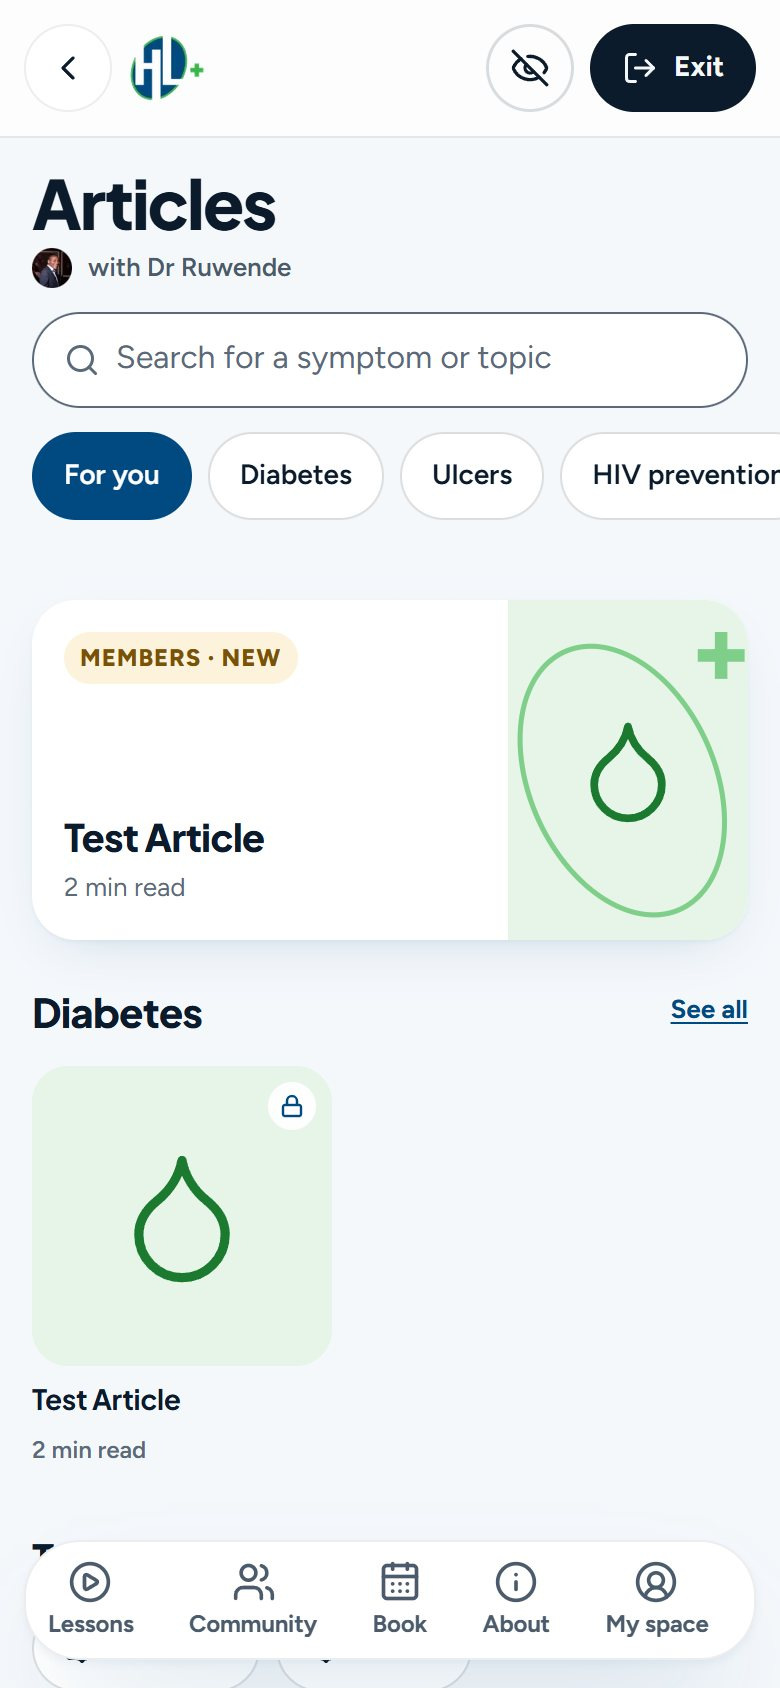
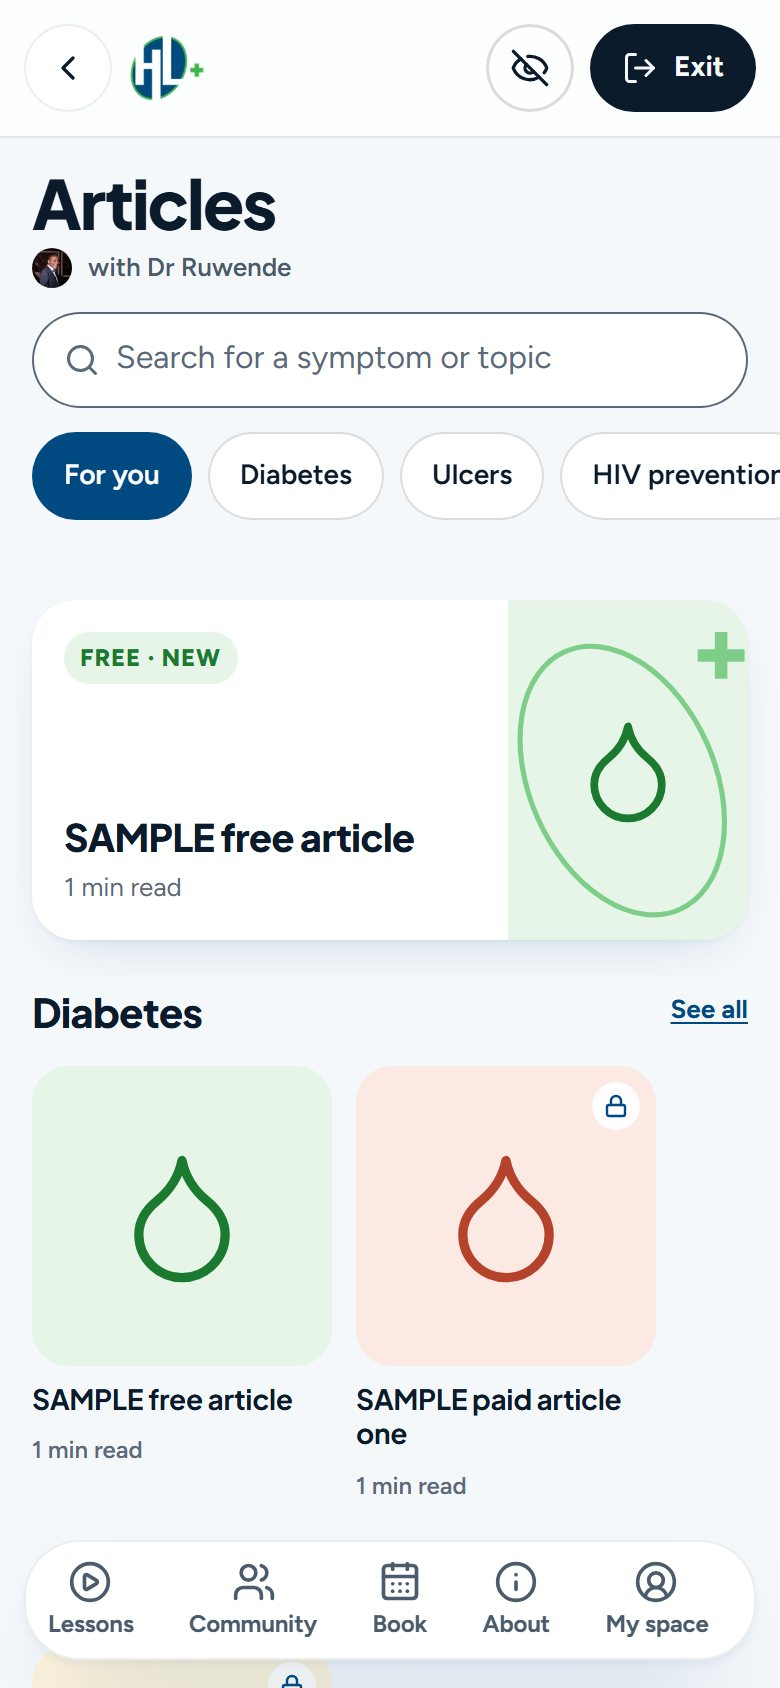
fix(media): keep sample Home and Articles captures until a real article is live

diff --git a/src/app/projects/health-and-longevity/page.tsx b/src/app/projects/health-and-longevity/page.tsx
@@ -140,12 +140,12 @@ const STACK: StackGroup[] = [
 ];
 
 const SCREENS: MediaItem[] = [
-  { kind: "image", wide: true, src: "/images/health-longevity/hl-home-desktop.jpg", alt: "Health & Longevity home page on a laptop: the six service tiles and a featured members' article" },
+  { kind: "image", wide: true, src: "/images/health-longevity/hl-home-desktop.jpg", alt: "Health & Longevity home page on a laptop: the six service tiles and a sample featured article" },
   { kind: "image", src: "/images/health-longevity/hl-membership-phone.jpg", focus: "top", alt: "Membership page on a phone: pay once and keep it, or buy one article, set or lesson" },
   { kind: "image", wide: true, src: "/images/health-longevity/hl-admin-today-desktop.jpg", alt: "Health & Longevity admin Today screen on a laptop, with the next video consult (sample data)" },
   { kind: "image", src: "/images/health-longevity/hl-consult-phone.jpg", focus: "top", alt: "Video consult booking on a phone, with a day and a time picked" },
   { kind: "image", src: "/images/health-longevity/hl-aide-match-phone.jpg", focus: "top", alt: "Nurse-aide match screen on a phone: three sample aides, nearest first" },
-  { kind: "image", src: "/images/health-longevity/hl-articles-phone.jpg", focus: "top", alt: "Articles page on a phone: search, topics and the newest members' article" },
+  { kind: "image", src: "/images/health-longevity/hl-articles-phone.jpg", focus: "top", alt: "Articles page on a phone, with sample free and paid articles by topic" },
   { kind: "image", src: "/images/health-longevity/hl-admin-today-phone.jpg", focus: "top", alt: "Admin Today screen on a phone, with the next video consult (sample data)" },
 ];
 
@@ -184,7 +184,7 @@ export default function HealthLongevityCaseStudyPage() {
             <HealthLongevityShowcase />
           </motion.div>
           <p className="mt-3 text-text-tertiary" style={{ fontFamily: "var(--font-jetbrains-mono)", fontSize: "11px" }}>
-            Screens from the live site.
+            Screens from the local preview with sample content.
           </p>
         </div>
 
@@ -233,7 +233,7 @@ export default function HealthLongevityCaseStudyPage() {
 
           <CaseSection id="screens" eyebrow="// screens" title="Screens">
             <p>
-              Public pages are captured from the live site. Screens behind a request or sign-in come from a local copy
+              Membership and consult booking are captured from the live site. The other screens come from a local copy
               with sample data. Tap a screen to open it.
             </p>
             <MediaGallery layout="grid" items={SCREENS} className="pt-2" />

diff --git a/src/components/ui/project-mocks/HealthLongevityShowcase.tsx b/src/components/ui/project-mocks/HealthLongevityShowcase.tsx
@@ -1,7 +1,8 @@
 import Image from "next/image";
 
 /**
- * Card visual for Health & Longevity: real screenshots of the live site. The desktop home page sits in a
+ * Card visual for Health & Longevity: real screenshots from the platform's
+ * local preview (sample content only). The desktop home page sits in a
  * browser frame; the phone view rises from the bottom-right corner over it.
  * Background is the site's own navy hero gradient (--color-hero to
  * --color-hero-deep in its tokens).

diff --git a/CLAUDE.md b/CLAUDE.md
@@ -474,8 +474,9 @@ but visual noise.
   Retake them if the site changes a lot
 - public/images/health-longevity/: Health & Longevity, 2026-11-01
   (hl-*-desktop 2000 x 1250 from 1440 px, hl-*-phone 780 x 1688 from 390 px).
-  hl-home-*, hl-articles-phone, hl-membership-phone and hl-consult-phone
-  from the live site, read only; hl-aide-match-phone and hl-admin-today-*
+  hl-membership-phone and hl-consult-phone from the live site, read only;
+  hl-home-* and hl-articles-phone stay on the sample-content versions until
+  a real article is live (see Known issues); hl-aide-match-phone and hl-admin-today-*
   from the local preview with sample data, test banners hidden. Home is
   scrolled past the hero so the portrait is not the subject. No clip: no
   flow.webm exists. Retake the live ones when the site changes a lot
@@ -710,6 +711,11 @@ screenshot.mjs
 - In dev with prefers-reduced-motion on, React logs a hydration mismatch on
   every motion section (server renders the full-motion variant, client the
   reduced one). Not yet fixed; a separate task
+- Health & Longevity Home and Articles captures (hl-home-desktop.jpg,
+  hl-home-phone.jpg, hl-articles-phone.jpg) stay on the sample-content
+  versions until the live site shows a real published article; the only live
+  article is titled "Test Article". Retake those three from the live site,
+  read only, once a real article is published (DECISIONS.md, 2026-11-01)
 
 ## Commands
 

diff --git a/DECISIONS.md b/DECISIONS.md
@@ -8,6 +8,7 @@ One line per decision, newest first. Date, what, why.
 - **Screens behind a request or sign-in come from the local preview on the same code (ruwende-platform a5bb301) with sample data,** because capturing them live would create real enquiries or show patients. The nurse-aide match screen was retaken from a fresh request flow, replacing the old step 6g.2 file. Admin Today (phone and laptop) shows one made-up consult.
 - **Platform test banners are hidden in portfolio captures** (injected CSS on the capture only). The SAMPLE tags on the aides stay.
 - **Sample phone numbers are masked as "+263 77 XXX XXXX"** in every FishTech Ops capture, so no invented number reads as a real one.
+- **Home and Articles captures stay on the sample-content versions until the live site shows a real published article,** because the only live article is titled Test Article. Retake those three (hl-home-desktop, hl-home-phone, hl-articles-phone) from the live site once a real article is published. Their alt text and the hero caption keep the sample wording; the Screens caption says Membership and consult booking are live captures and the rest come from a local copy.
 - **Alt text and captions follow the pictures:** Membership and Articles alts describe the live pages, and the case study now says which screens are live and which come from a local copy.
 
 ## 2026-10-31: Health & Longevity, FishTech Sales Agent & Ops, and truth fixes
